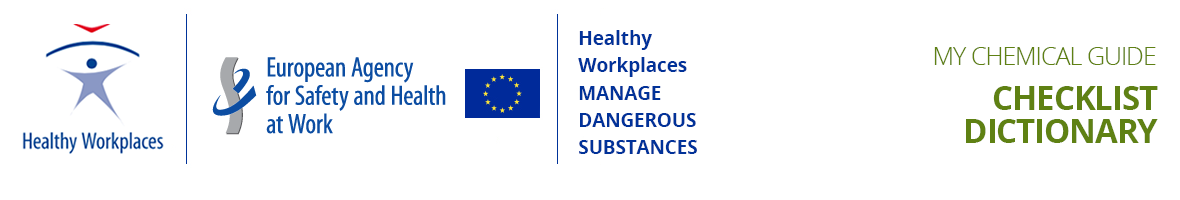
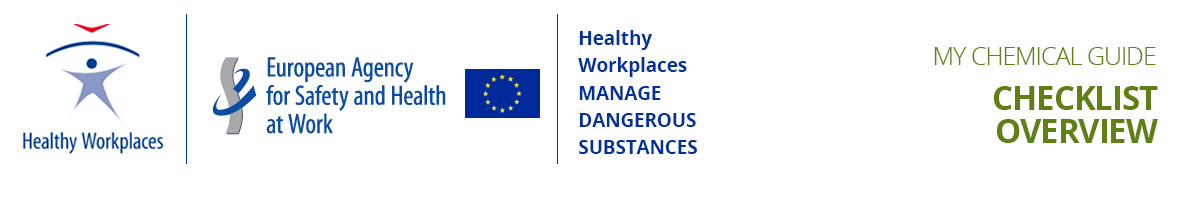
DSI-51 - Modification of Checklist dictionary label by Checklist overview

Changed region(s): [[0.7932, 0.57, 1.0, 0.72]]

diff --git a/sites/all/themes/bootstrapDs/templates/system/page--front.tpl.php b/sites/all/themes/bootstrapDs/templates/system/page--front.tpl.php
@@ -200,7 +200,7 @@
       <a href="<?php print ($urlAbout)?>"><span class="btn-home"><?php echo t('Learn more about the Dangerous substances e-tool');?></span></a>
       <a href="<?php print ($urlGlossary)?>"><span class="btn-home glossary"><?php echo t('Glossary');?></span></a>
       <a href="<?php print ($urlRecPdf)?>" target='_blank'><span class="btn-home download-dictionary max-reco"><span><?php echo t('Recommendations dictionary');?></span></span></a>
-      <a href="<?php print ($urlCheckPdf)?>" target='_blank'><span class="btn-home download-dictionary max-check"><span><?php echo t('Checklist dictionary');?></span></span></a>
+      <a href="<?php print ($urlCheckPdf)?>" target='_blank'><span class="btn-home download-dictionary max-check"><span><?php echo t('Checklist overview');?></span></span></a>
     </div>
 
   </section>

diff --git a/sites/all/themes/bootstrapDs/templates/views-view--checklist-list--checklist.tpl.php b/sites/all/themes/bootstrapDs/templates/views-view--checklist-list--checklist.tpl.php
@@ -13,8 +13,8 @@
   <?php if ($exposed): ?>
     <div class="view-filters">
       <?php print $exposed; ?>
-      <p class="view-link-ds back-list"><a href="recommendation-list">Go to recommendations management</a></p>
-      <p class="view-link-ds"><a href="../printpdf/201" target="_blank">Checklist dictionary</a></p>
+      <p class="view-link-ds back-list"><a href="recommendation-list"><?php echo t('Go to recommendations management');?></a></p>
+      <p class="view-link-ds"><a href="../printpdf/201" target="_blank"><?php echo t('Checklist overview');?></a></p>
     </div>
   <?php endif; ?>
 

diff --git a/sites/all/themes/bootstrapDs/templates/print--pdf--node--page--252.tpl.php b/sites/all/themes/bootstrapDs/templates/print--pdf--node--page--252.tpl.php
@@ -341,8 +341,8 @@ $no = t('No');
 $no = str_pad($no,  10, " ");
 
 ?>
- <div class="main-container" style="padding-bottom: 60px;"> 
-  <h1 class="page-header container" style="margin-top:-40px;padding-top:0;"><?php print t("Checklist Dictionary"); ?></h1>
+  <div class="main-container" style="padding-bottom: 60px;"> 
+  <h1 class="page-header container" style="margin-top:-40px;padding-top:0;"><?php print t("Checklist overview"); ?></h1>
   
 <?php
  

diff --git a/sites/all/themes/bootstrapDs/templates/print--pdf--node--page--201.tpl.php b/sites/all/themes/bootstrapDs/templates/print--pdf--node--page--201.tpl.php
@@ -342,7 +342,7 @@ $no = str_pad($no,  10, " ");
 
 ?>
  <div class="main-container" style="padding-bottom: 60px;"> 
-  <h1 class="page-header container" style="margin-top:-40px;padding-top:0;"><?php print t("Checklist Dictionary"); ?></h1>
+  <h1 class="page-header container" style="margin-top:-40px;padding-top:0;"><?php print t("Checklist overview"); ?></h1>
   
 <?php
  
